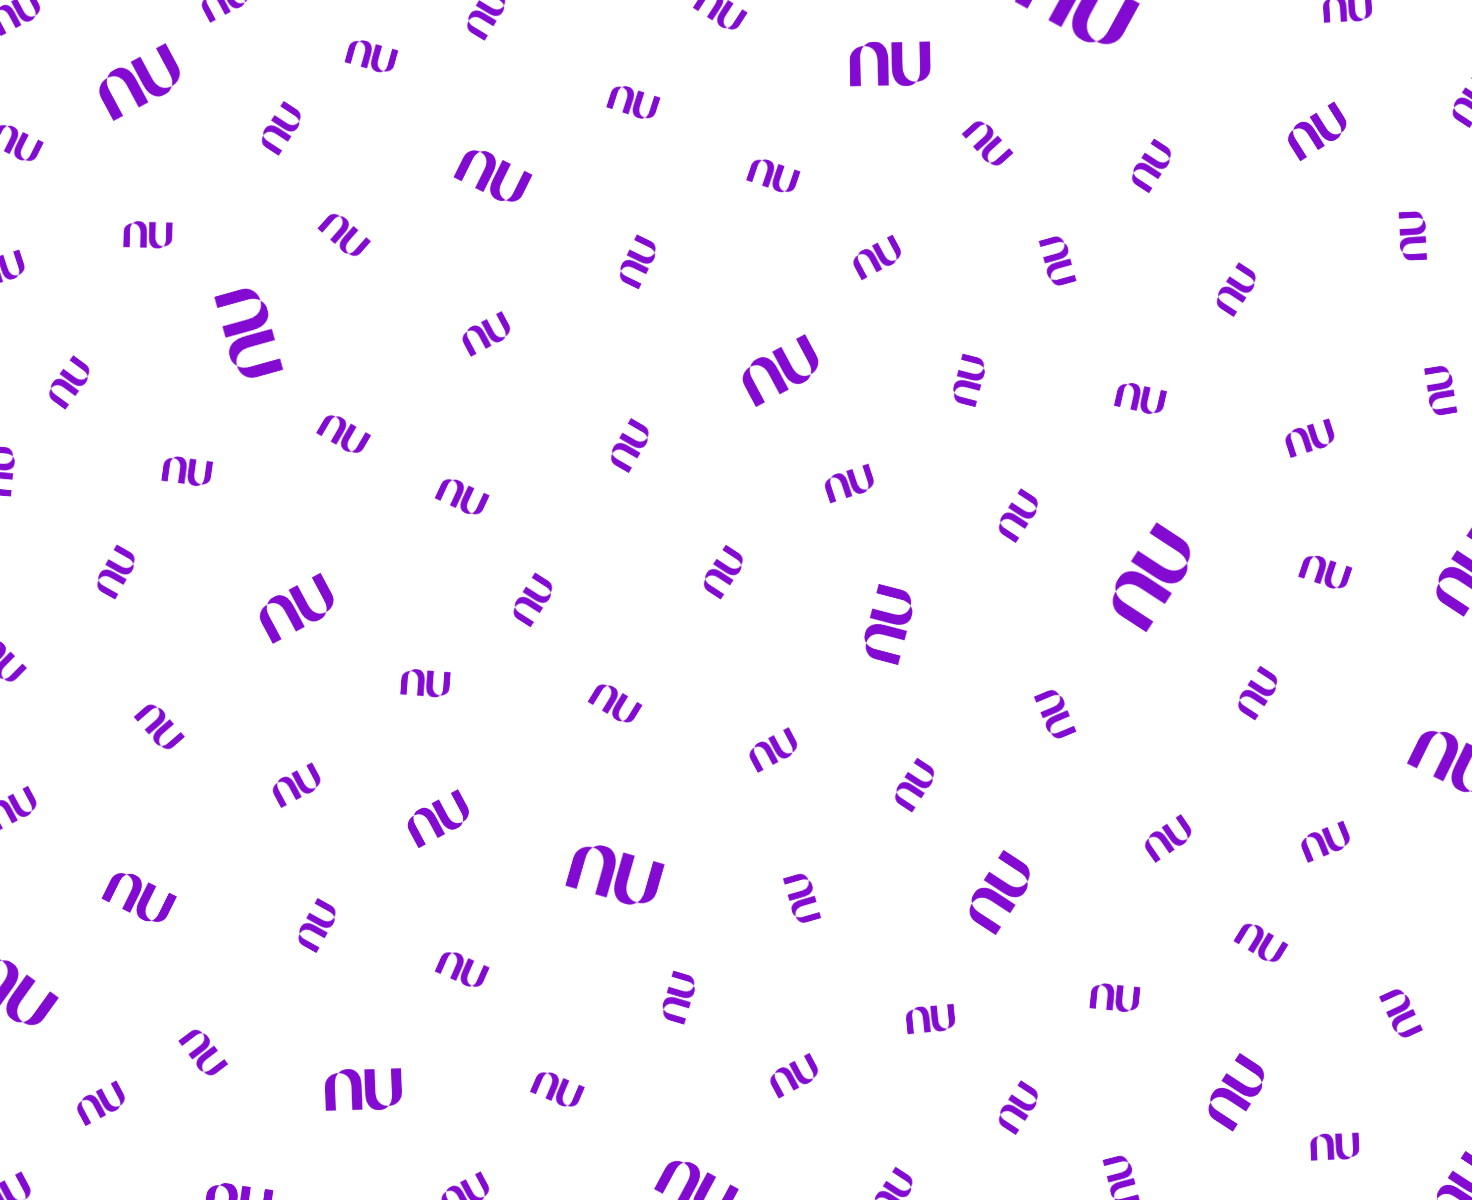
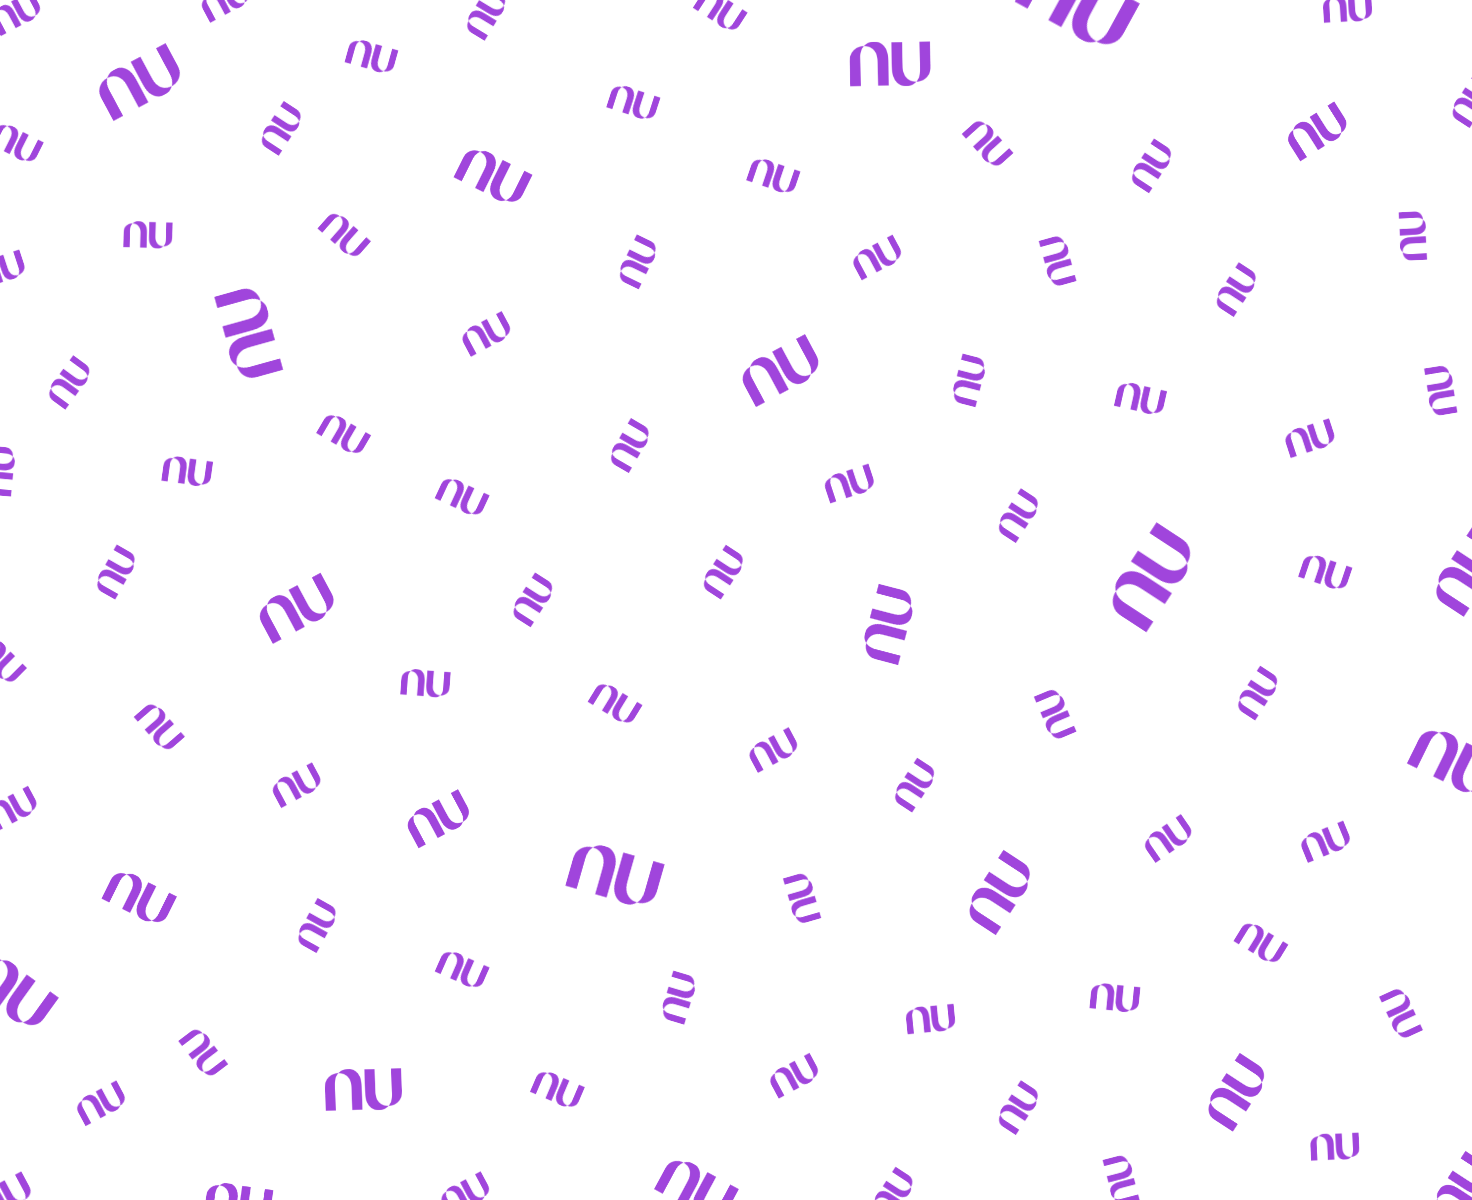
Alterando background primario

diff --git a/css/main.css b/css/main.css
@@ -11,9 +11,9 @@
 /* Adicionando imagem de background da página */
 
 body {
-   background: url('../img/Nu-Background-preto.png') no-repeat scroll, url('../img/Nu-Background-branco.png') bottom fixed;
+   background: url('../img/Nu-Background.png') no-repeat scroll, url('../img/Nu-Background-branco.png') bottom fixed;
    background-size: contain, cover;
-   background-color: #905EB2;
+   background-color: black;
 }
 
 /* Ajustando o tamamho das divs e das imagens */
@@ -60,7 +60,7 @@ body {
    margin-top: -11%;
    margin-left: 11%;
    width: 80%;
-   height: 100%;
+   height: 60%;
    text-align: justify;
    color: white;
    text-shadow: 2px 2px 5px black;
@@ -75,8 +75,8 @@ body {
 
 .enfase2 {
    font-size: 27px;
-   color: #8a1ece;
-   text-shadow: 0 0 10px rgb(242, 0, 250);
+   color: #b43bff;
+   text-shadow: 0 0 10px rgb(142, 62, 247);
 
 
 }
@@ -160,7 +160,6 @@ body {
 }
 
 .rodape strong {
-   border-right: solid black;
    padding: 40px 0;
    font-size: 18px;
    color: white;
@@ -181,7 +180,7 @@ body {
 
 ::-webkit-scrollbar {
 
-   background-color: #6d2997;
+   background-color: #b1b1b1;
    width: 15px;
    border: solid 0.3px black;
 
@@ -191,6 +190,5 @@ body {
 
    background-color: #3b065f;
    border: solid 0.3px black;
-   border-radius: 5px;
 
 }

diff --git a/css/carrossel.css b/css/carrossel.css
@@ -21,7 +21,7 @@
 }
 
 .bnt-carrossel:focus {
-   background-color: #820AD1;
+   background-color: #b13bff;
    background-image: none;
    width: 50px;
    height: 50px;
